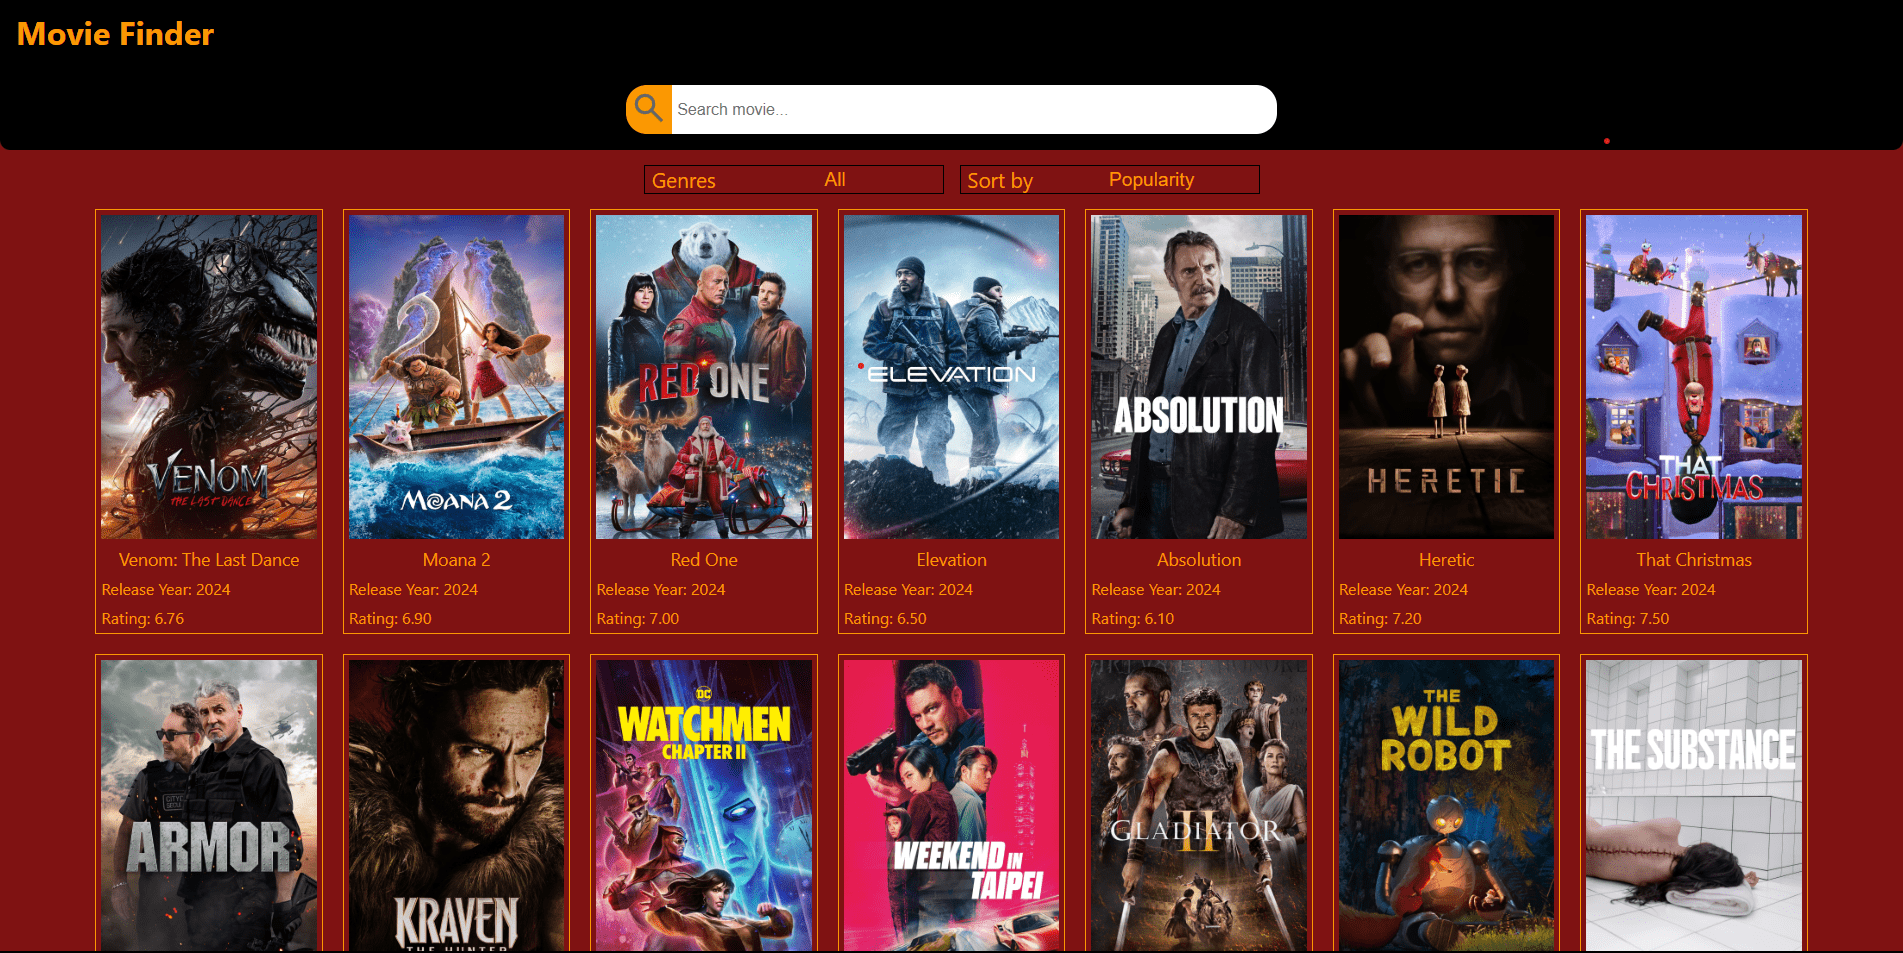
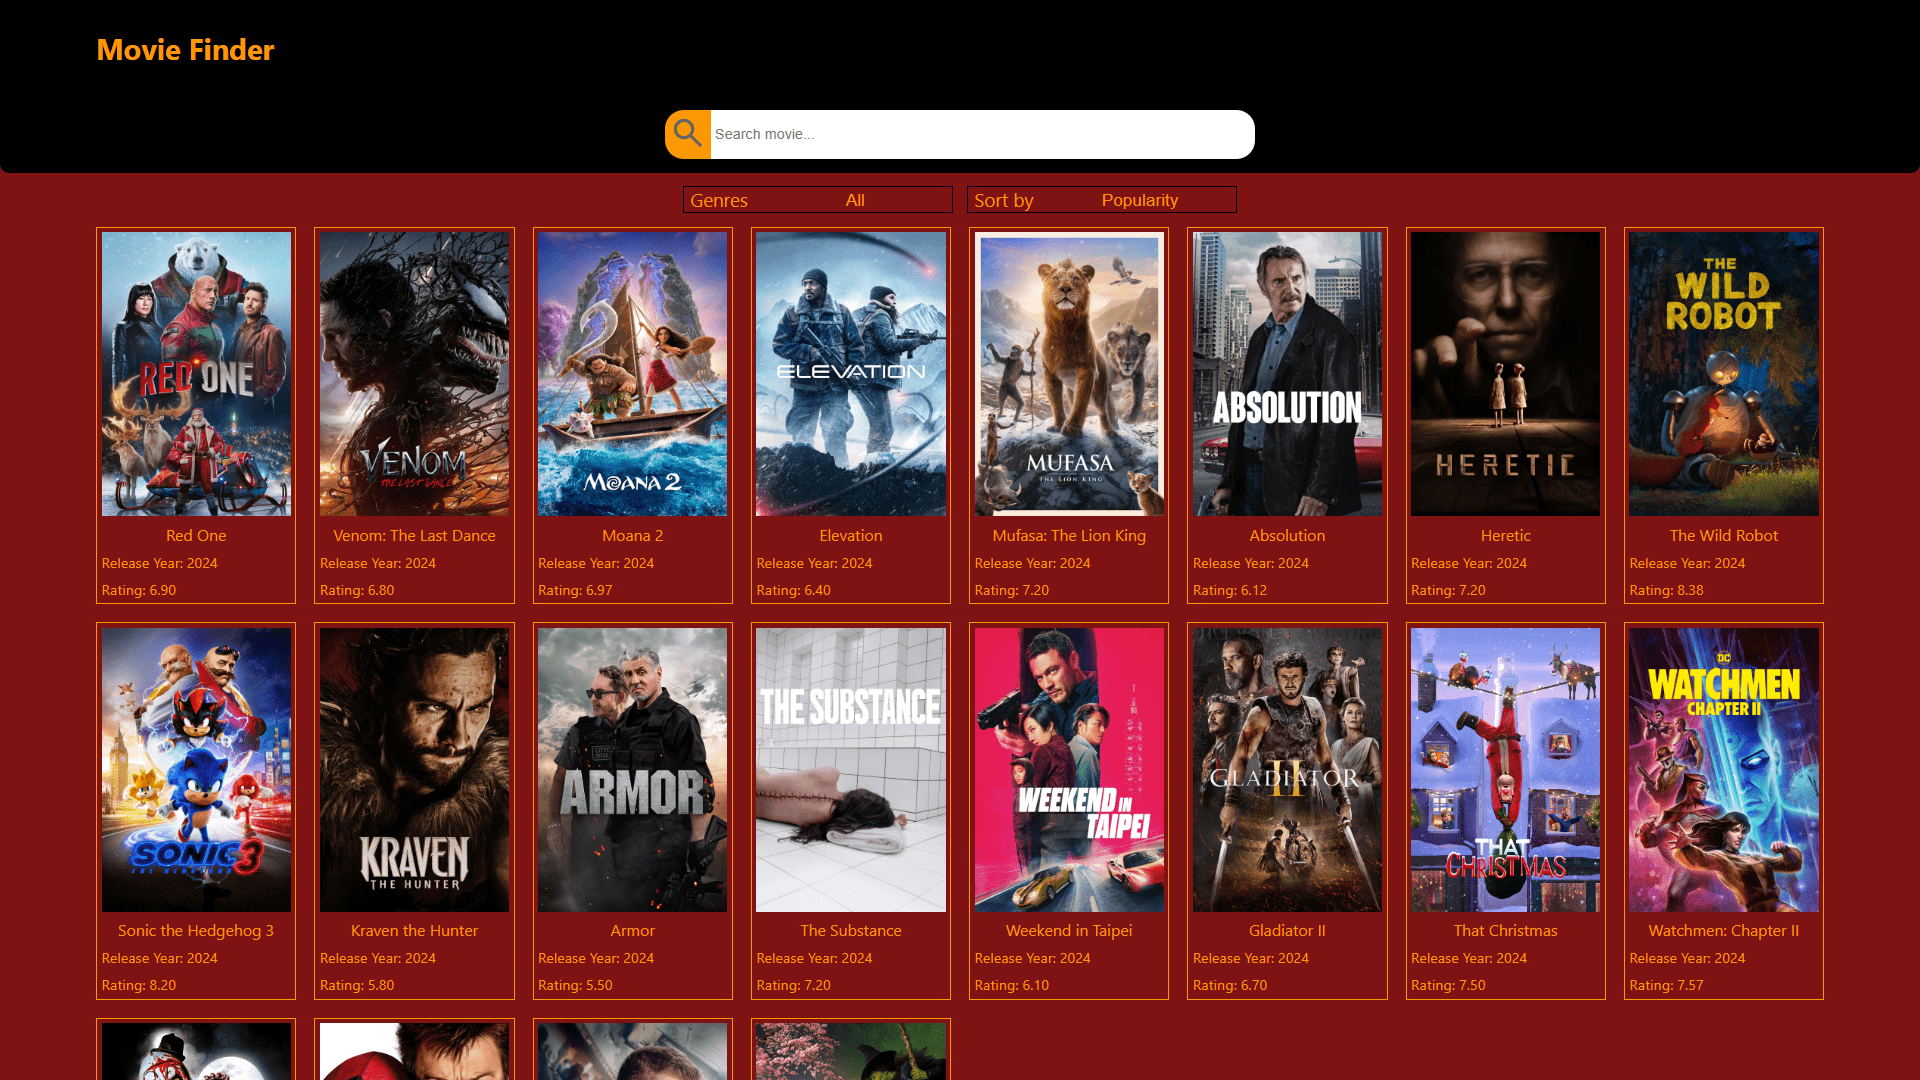
Good project images. Header hides when nav bar open on mobile.

diff --git a/src/components/Projects/Projects.jsx b/src/components/Projects/Projects.jsx
@@ -5,7 +5,7 @@ import "./ProjectsStyles.css";
 const PROJECTS = [
   {
     title: "Ecommerce",
-    // img: "src/assets/ecommerce-preview.png",
+    img: "src/assets/ecommerce-preview.png",
     link: "https://ecommerce-orcin-three-49.vercel.app/",
     description:
       "This is an ecommerce example webpage, this model is focused on sneakers but it could be adapted to any kind of products. The goal of this project was to learn how to create a basic layout for an ecommerce web page, how to manage a cart and multiple pages that shows different content. ",
@@ -14,7 +14,7 @@ const PROJECTS = [
   {
     title: "Movie Finder",
     link: "https://movie-finder-beta-rust.vercel.app/",
-    // img: "src/assets/movie-finder-preview.png",
+    img: "src/assets/movie-finder-preview.png",
     description:
       "This is a movie finder site, where you can search, filter and sort movies to find the perfect movie for you.",
     technologies: ["HTML", "CSS", "JavaScript", "React"],

diff --git a/src/components/Contact/ContactStyle.css b/src/components/Contact/ContactStyle.css
@@ -1,7 +1,7 @@
 .contact-section {
   display: flex;
+  flex-wrap: wrap;
   align-items: center;
-  margin-top: 2rem;
 }
 
 .contacts-container {
@@ -11,7 +11,7 @@
   justify-content: start;
 
   padding: 5px 10px 5px 0;
-  gap: 1.5rem;
+  gap: 1rem;
 }
 
 a {
@@ -42,8 +42,8 @@ a div svg {
   flex-grow: 1;
 }
 
-.mail-container p {
-  font-weight: 300;
+.mail-container span {
+  font-weight: 400;
   position: absolute;
   top: 50%;
   left: -20%;
@@ -64,7 +64,7 @@ a div svg {
   cursor: pointer;
 }
 
-.mail-container a:hover p {
+.mail-container a:hover span {
   opacity: 1;
   color: var(--font-color-dark);
   letter-spacing: 0.05em;

diff --git a/src/components/Skills/SkillsStyles.css b/src/components/Skills/SkillsStyles.css
@@ -3,8 +3,6 @@
   flex-direction: column;
   justify-content: center;
   align-items: start;
-
-  height: 10vh;
   min-height: fit-content;
   padding: 1rem;
   gap: 1rem;
@@ -13,7 +11,7 @@
 .skills-container {
   display: flex;
   justify-content: space-between;
-
+  gap: 2rem;
   width: 100%;
   flex-wrap: wrap;
 }
@@ -41,4 +39,10 @@ svg {
   user-select: none;
   font-family: var(--buttons-font);
   font-weight: bold;
+}
+
+@media (max-width: 480px) {
+  .skills-container {
+    justify-content: space-around;
+  }
 }

diff --git a/src/components/AboutMe/AboutMe.jsx b/src/components/AboutMe/AboutMe.jsx
@@ -1,5 +1,6 @@
 import React from "react";
 import "./AboutMeStyles.css";
+import { Contact } from "../Contact/Contact";
 
 export const AboutMe = React.forwardRef((props, ref) => {
   return (
@@ -10,6 +11,7 @@ export const AboutMe = React.forwardRef((props, ref) => {
         Front-end. Me especializo en crear diseños de páginas web responsivas e
         interactivas para todo tipo de producto o negocio.
       </p>
+      <Contact />
     </section>
   );
 });

diff --git a/src/components/Hero/Hero.jsx b/src/components/Hero/Hero.jsx
@@ -1,13 +1,11 @@
 import React from "react";
 import "./HeroStyles.css";
-import { Contact } from "../Contact/Contact";
 
 export const Hero = React.forwardRef((props, ref) => {
   return (
-    <hero className="hero" ref={ref}>
+    <div className="hero" ref={ref}>
       <h1>Santiago Gomez</h1>
       <h2>Desarrollador Front-end</h2>
-      <Contact />
-    </hero>
+    </div>
   );
 });

diff --git a/src/App.css b/src/App.css
@@ -13,6 +13,7 @@
 .content-container {
   width: 70%;
   max-width: 1024px;
+  height: fit-content;
   display: flex;
   flex-direction: column;
   gap: 1rem;
@@ -44,7 +45,12 @@ section {
 
   header {
     width: 100%;
+    max-width: 100vw;
     height: 3rem;
     background-color: var(--secondary-color-dark);
+  }
+
+  .small-header {
+    width: fit-content;
   }
 }

diff --git a/src/components/Contact/Contact.jsx b/src/components/Contact/Contact.jsx
@@ -44,7 +44,7 @@ export function Contact() {
           <div className="mail-container" onClick={copyMail}>
             <a>
               <MailICon />
-              <p id="mail-direction">Santigomez1129@gmail.com</p>
+              <span id="mail-direction">Santigomez1129@gmail.com</span>
             </a>
           </div>
         </TooltipWrapper>

diff --git a/src/App.jsx b/src/App.jsx
@@ -58,7 +58,7 @@ function App() {
   return (
     <>
       {modalBackdrop && <ModalBackdrop />}
-      <header>
+      <header className={openNav && "small-header"}>
         {openNav ? (
           <NavBar sections={sections} scrollToSection={scrollToSection} />
         ) : (

diff --git a/src/Logic/useOpenNav.js b/src/Logic/useOpenNav.js
@@ -1,4 +1,4 @@
-import { useState, useEffect, useContext } from "react";
+import { useContext } from "react";
 import { PortfolioContext } from "../context/PortfolioContext";
 
 export const useOpenNav = () => {

diff --git a/src/index.css b/src/index.css
@@ -19,6 +19,11 @@
   user-select: none;
 }
 
+/* * {
+  outline: 1px solid red;
+} */
+
 html {
   background-color: var(--background-dark);
+  max-width: 100vw;
 }

diff --git a/src/components/ModalBackdrop/ModalBackdropStyle.css b/src/components/ModalBackdrop/ModalBackdropStyle.css
@@ -4,6 +4,6 @@
   left: 0;
   width: 100%;
   height: 100%;
-  background-color: rgba(210, 10, 10, 0.5);
+  background-color: rgba(0, 0, 0, 0.5);
   z-index: 5;
 }

diff --git a/src/components/AboutMe/AboutMeStyles.css b/src/components/AboutMe/AboutMeStyles.css
@@ -4,7 +4,6 @@
   justify-content: center;
   align-items: start;
 
-  height: 10vh;
   min-height: fit-content;
   padding: 1rem;
   gap: 1rem;
